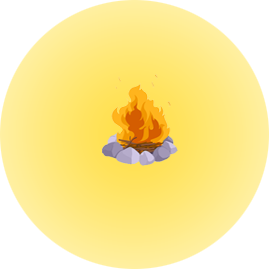
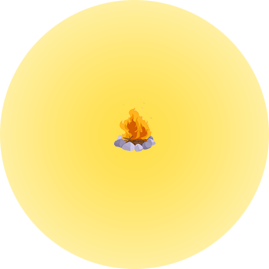
fixed asset

Changed region(s): [[0.3569, 0.2974, 0.6543, 0.6245]]

diff --git a/Evolith/src/evolith/entities/CampfireManager.java b/Evolith/src/evolith/entities/CampfireManager.java
@@ -30,7 +30,7 @@ public class CampfireManager implements Commons {
     }
     
     public void addCampfire(int x, int y){
-        campfires.add(new Campfire(x, y, 250, 250, game));
+        campfires.add(new Campfire(x, y, 350, 350, game));
         prevTime = game.getClock().getSeconds();
         cooldown = true;
     }
